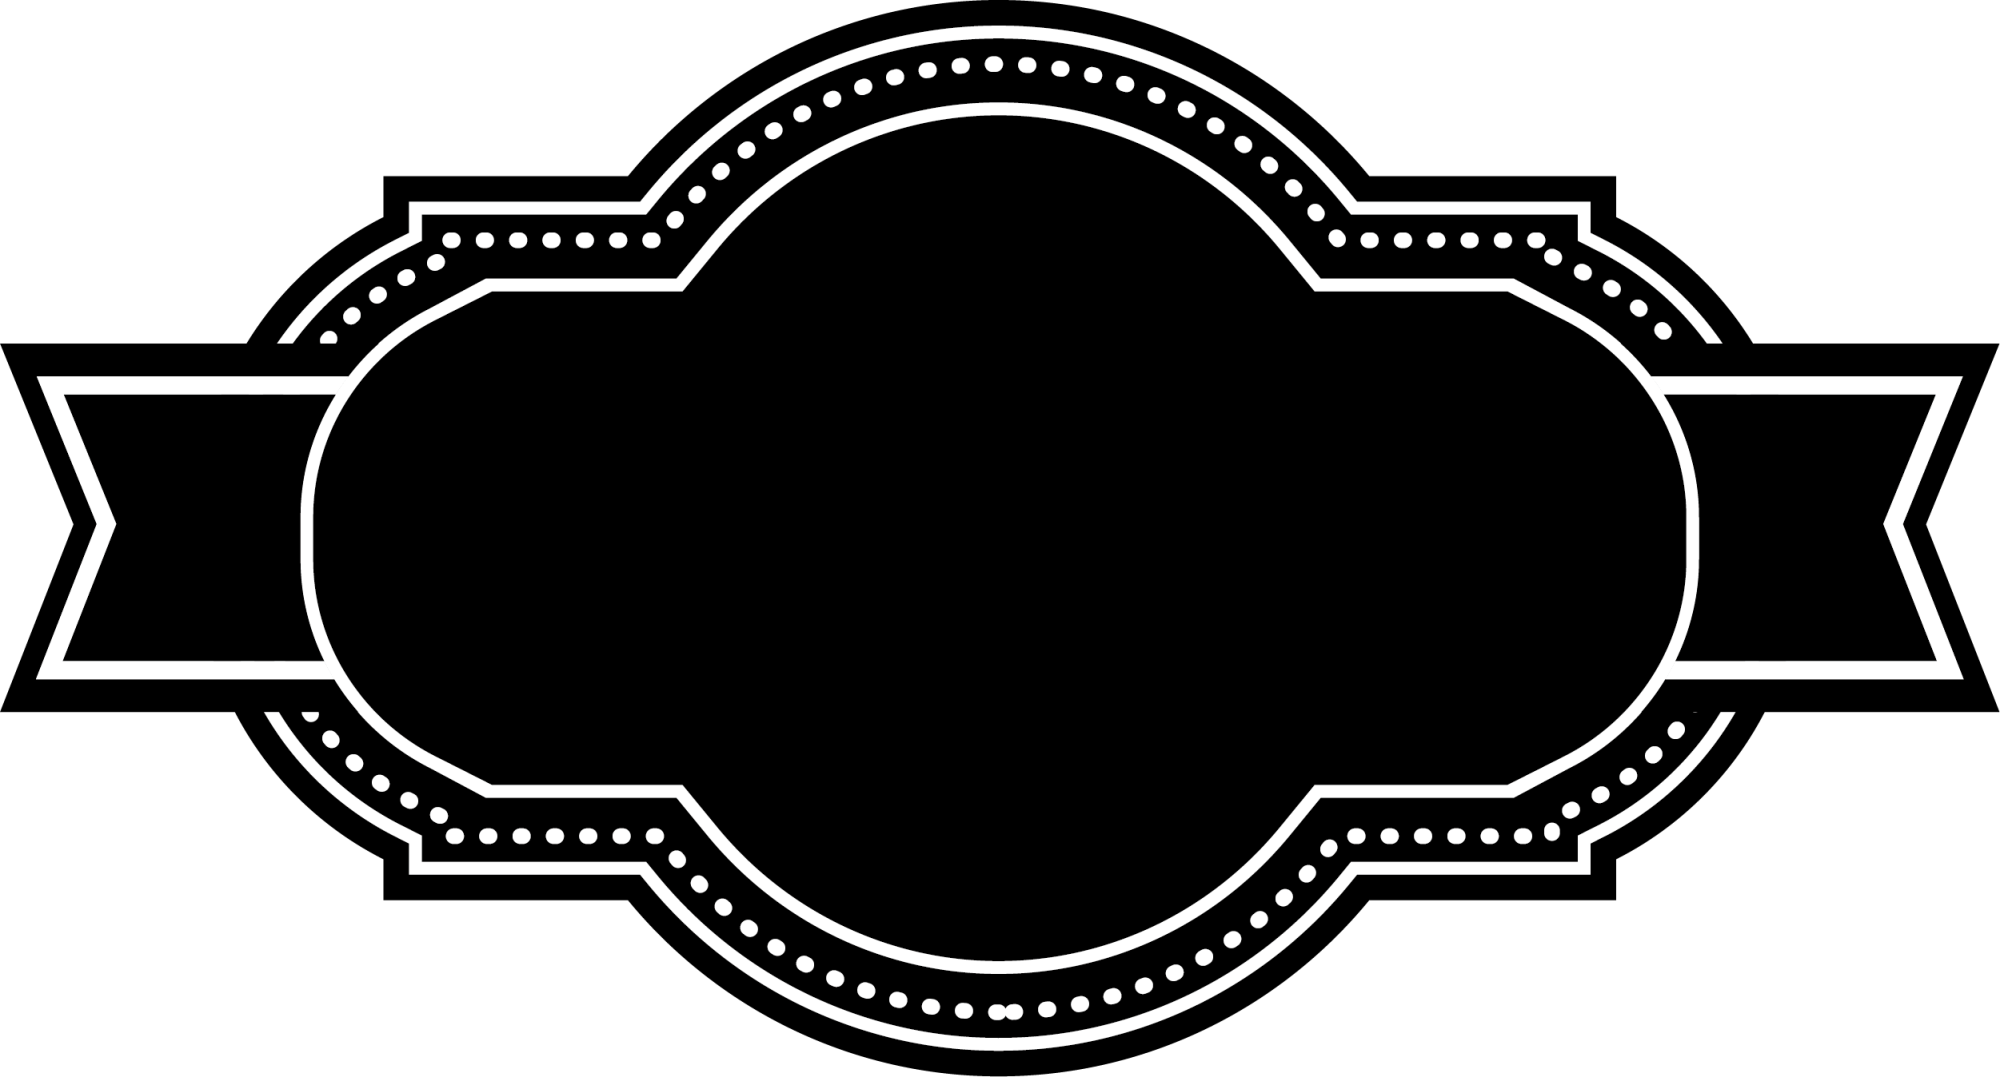
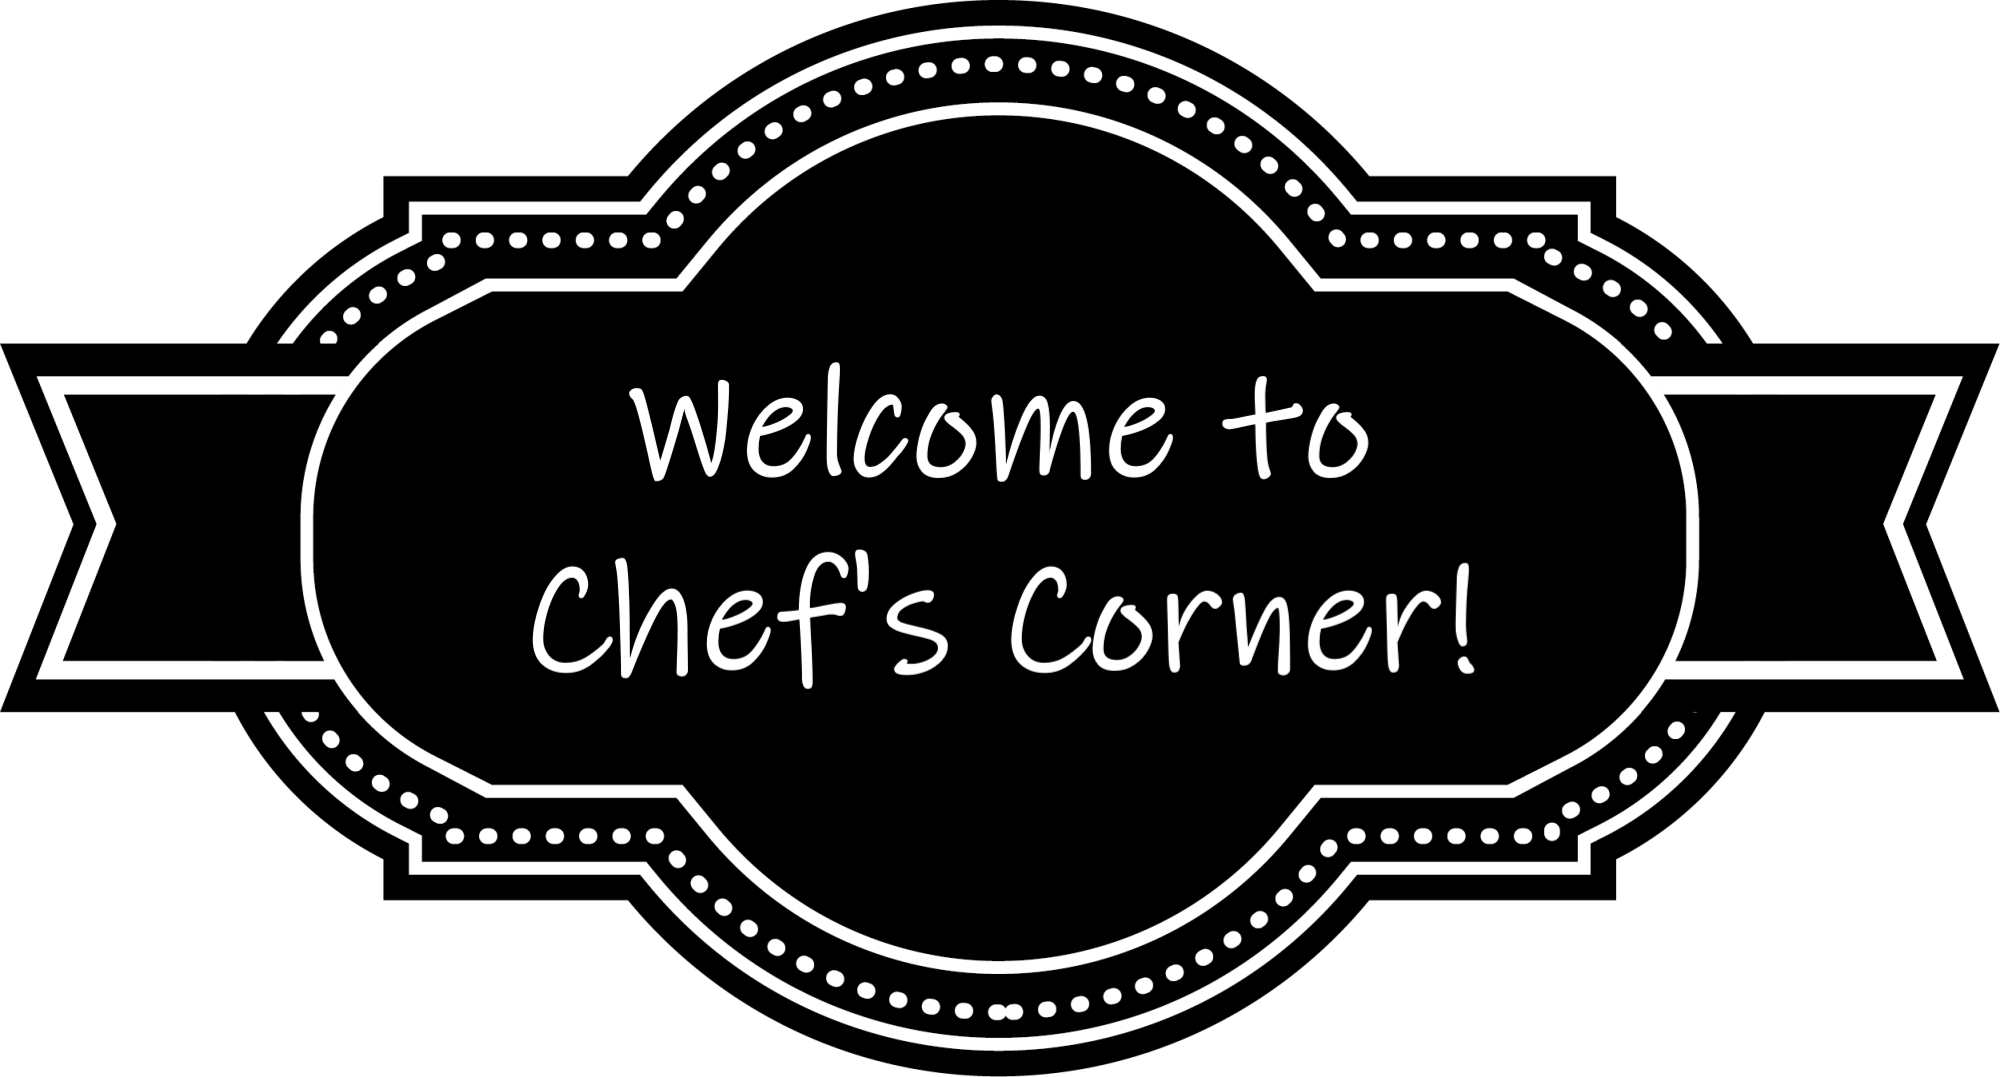
middle of responsive design

Changed region(s): [[0.248, 0.4903, 0.744, 0.6435], [0.31, 0.337, 0.589, 0.4596], [0.62, 0.337, 0.682, 0.4596]]

diff --git a/style.css b/style.css
@@ -23,58 +23,77 @@ header {
   background-color: black;
   width: 100%;
   align-items: center;
+  position: relative;
 }
 
 header > img {
-  margin-left: 2vw;
-  height: 100%;
-  width: auto;
+  margin: auto;
+  height: auto;
+  max-height: 100%;
+  max-width: 70%;
 }
 
-header > a {
-  display: flex;
-  justify-content: center;
-  align-items: center;
-  width: 10vw;
-  height: 100%;
-  padding-left: auto;
-  padding-right: auto;
-  margin-left: 2vw;
-  text-decoration: none;
-  color: white;
-}
-
-header > a span {
-  display: flex;
-  align-items: center;
-  justify-content: center;
-  height: 80%;
-  width: 100%;
-  transition: background-color 750ms linear, color 250ms linear;
-  border-radius: 3px;
-  font-size: 1.2em;
-}
-
-header > a span:hover {
+.navi div {
+  height: 3px;
   background-color: white;
-  color: black;
+  margin: 5px 0;
+  border-radius: 25px;
+  transition: all 300ms ease;
 }
 
-header > form {
-  display: flex;
-  margin-left: 2vw;
-  margin-right: 2vw;
-  height: 100%;
+.navi {
+  display: block;
   width: auto;
-  justify-content: left;
-  align-items: center;
-  flex-grow: 1;
+  position: absolute;
+  top: 50%;
+  left: 2%;
+  transform: translateY(-50%);
+  transition: all 300ms ease;
+  border-radius: 5px;
+  padding: 0 5px;
 }
 
-header > form input {
-  height: 50%;
-  flex-grow: 1;
-  border-radius: 3px;
+.one {
+  width: 25px;
+}
+
+.two {
+  width: 15px;
+}
+
+.three {
+  width: 20px;
+}
+
+.navi:hover div{
+  width: 20px;
+  background-color: black;
+}
+
+.navi:hover {
+  background-color: white;
+}
+
+.fa.fa-search {
+  cursor: pointer;
+  display: flex;
+  justify-content: center;
+  align-items: center;
+  color: white;
+  font-size: 25px;
+  position: absolute;
+  top: 50%;
+  right: 2%;
+  transform: translateY(-50%);
+  width: 30px;
+  height: 30px;
+  border-radius: 5px;
+  transition: background-color 750ms linear, color 250ms linear;
+}
+
+.fa.fa-search:hover {
+  color: black;
+  background-color: white;
 }
 
 #searchResultArea {
@@ -134,8 +153,13 @@ header > form input {
   flex-direction: column;
   align-items: center;
   justify-content: center;
-  width: 50%;
-  height: 50%;
+  position: absolute;
+  top: 50%;
+  left: 50%;
+  transform: translate(-50%, -50%);
+  width: 80%;
+  height: 80%;
+  max-height: 55%;
   text-align: center;
 
   background-image: url('images/banner.png');
@@ -143,11 +167,7 @@ header > form input {
   background-repeat: no-repeat;
   background-size: contain;
 
-  position: fixed;
-  top: 25%;
-  left: 25%;
-
-  font-size: 1.8vw;
+  font-size: 3vh;
   color: white;
 
   opacity: 0;
@@ -173,19 +193,11 @@ header > form input {
   }
 }
 
-#welcome span {
-  margin-top: 2em;
-}
-
-#welcome p {
-  width: 50%;
-}
-
 footer {
   display: flex;
   margin: 0;
   padding: 0;
-  height: 30vh;
+  height: auto;
   width: 100vw;
   background-color: cadetblue;
   color: white;
@@ -311,7 +323,7 @@ footer > div > div{
   margin: 0.25em auto;
   width: 94.5vw;
   color: white;
-  font-size: 2em;
+  font-size: max(min(1.25em), 3vw);
   text-align: center;
   background-image: url();
 }
@@ -322,7 +334,7 @@ footer > div > div{
   font-weight: bold;
   text-align: center;
   height: auto;
-  font-size: 3.5vmin; 
+  font-size: max(min(1.1em), 3.5vmin); 
   width: 95vw;
   margin: 1em auto;
 }
@@ -334,7 +346,7 @@ footer > div > div{
   transition: background-color 750ms ease, color 250ms ease;
   text-decoration: none;
   color: white;
-  height: 6vh;
+  height: max(min(1.2em), 6vh);
   justify-content: center;
   align-items: center;
   border: 2px solid cadetblue;
@@ -368,7 +380,6 @@ footer > div > div{
 
 .rolldown{
   padding: 1em;
-  font-size: 2.25vmin;
   display: block;
   background-color: white;
   overflow-y: auto;
@@ -384,7 +395,6 @@ footer > div > div{
 
 .showInfo {
   padding: 1em;
-  font-size: 2.25vmin;
   background-color: white;
   display: block;
   overflow-y: auto;
@@ -492,10 +502,10 @@ footer > div > div{
   width: 100%;
   background-color: rgb(30,30,30);
   color: white;
-  font-size: 2.25vmin;
   font-weight: bold;
-  padding-top: 2.5vh;
-  text-align: center; 
+  display: flex;
+  justify-content: center;
+  align-items: center;
 }
 
 .nav button {
@@ -522,17 +532,54 @@ footer > div > div{
 }
 
 .nav .next {
+  position: absolute;
   right: 5px;
 }
 
 .nav .prev {
+  position: absolute;
   left: 5px;
 }
 
-@media screen and (min-width: 1200px) {
+@media screen and (max-width: 1900px) {
+  .nav {
+    display: none;
+  }
 
+  .container {
+    overflow-y: auto;
+  }
+
+  .carousel, .slider {
+    display: inline;
+  }
+
+  .slider {
+    scroll-snap-type: y mandatory;
+  }
+
+  .card {
+    width: 20em;
+    margin: 1em auto;
+    scroll-snap-align: start; 
+  }
 }
 
-@media screen and (min-width: 768px) {
+@media screen and (max-width: 400px) {
+  #featured, #featured a{
+    display: block;
+    width: 99%;
+    margin: 0.5em auto;
+  }
+}
 
+@media screen and (max-width: 300px) {
+  .card {
+    width: 15em;
+    margin: 0 auto;
+  }
+
+  #Section1Div, #Section2Div, #Section3Div, #Section4Div {
+    height: 65vh;
+  }
 }

diff --git a/index.html b/index.html
@@ -21,6 +21,7 @@
 	<link href="style.css" rel="stylesheet" type="text/css" />
 	<link rel="preconnect" href="https://fonts.gstatic.com">
 	<link href="https://fonts.googleapis.com/css2?family=Gothic+A1:wght@200&display=swap" rel="stylesheet">
+  <link rel="stylesheet" href="https://cdnjs.cloudflare.com/ajax/libs/font-awesome/4.7.0/css/font-awesome.min.css">
 </head>
 
 <script>
@@ -45,26 +46,17 @@
   
 	<header>
 		<img src="images/Name.jpeg" alt="SiteName">
-      <a href="#featuredHeader">
-        <span>Featured</span>
-      </a>
-      <a href="#Contact">
-        <span>Contact</span>
-      </a>
-      <form action="#"onsubmit="return false;">
-        <label for="searchbar"></label>
-        <input type="text" id="searchbar" name="searchbar" placeholder="Search...">
-      </form>
-    </header>
+    <a href="#" class="navi">
+      <div class="one"></div>
+      <div class="two"></div>
+      <div class="three"></div>
+    </a>
+    <i class="fa fa-search"></i>
+  </header>
 
-    <div id="searchResultArea">hellow</div>
+    <div id="searchResultArea"></div>
 
-    <div id="welcome">
-      <span>Welcome to Chef's Corner!</span>
-      <p>
-        Here you can find some of the best recipes to satisfy your cravings!
-      </p>
-   </div>
+    <div id="welcome"></div>
 
    <section id="HomeBG"></section>
 
@@ -1609,8 +1601,7 @@
           <img id="SMicon" src="images/SocialMediaIcons.png" alt="Social Media Links">
         </div>
         <div>
-          Project Contributors: <br><br>
-
+          <b>Project Contributors:</b>
           Shivan Maharaj <br>
           Lydia Boucher <br> 
           Amanda Lalman <br>
